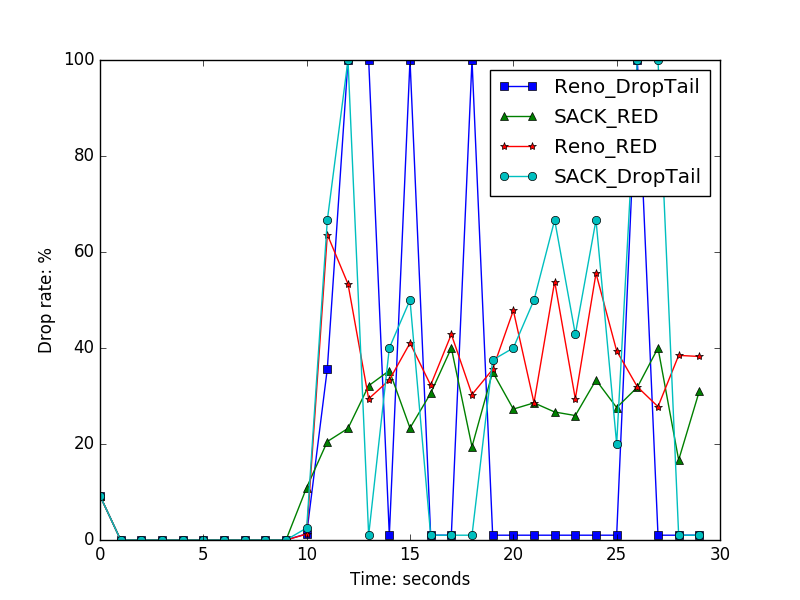
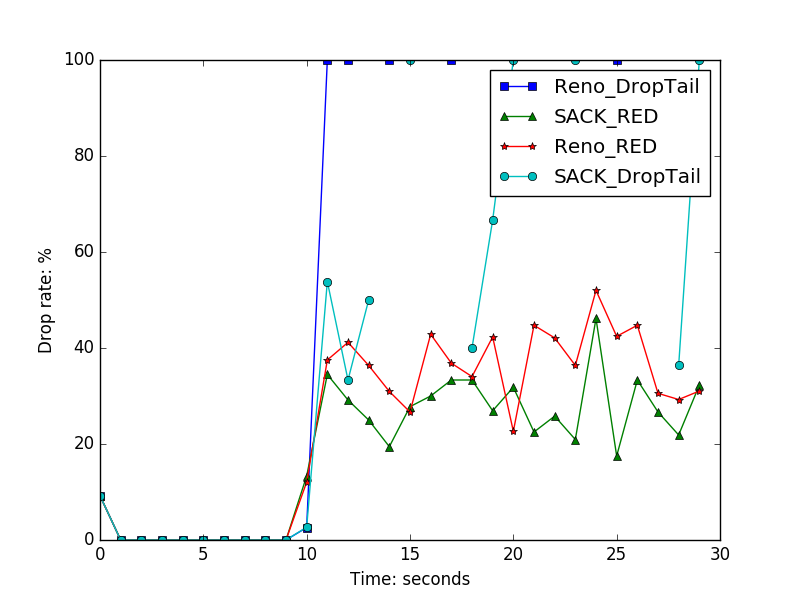
exp3

diff --git a/p3/exp3/run_exp3.py b/p3/exp3/run_exp3.py
@@ -40,8 +40,8 @@ def statistic(fname, duration):
             window.pop(seq)
     for i in range(duration):
         thpt.append(recv[i]*1040*8.0/1024)
-        latency.append(total_rtt[i]*1.0/recv[i] if recv[i] != 0 else 0.35)
-        drop.append((send[i]-recv[i])*1.0/send[i]*100 if send[i] != 0 else 1)
+        latency.append(total_rtt[i]*1.0/recv[i] if recv[i] != 0 else None)
+        drop.append((send[i]-recv[i])*1.0/send[i]*100 if send[i] != 0 else None)
     return thpt, latency, drop
 
 def runExp1(duration):
